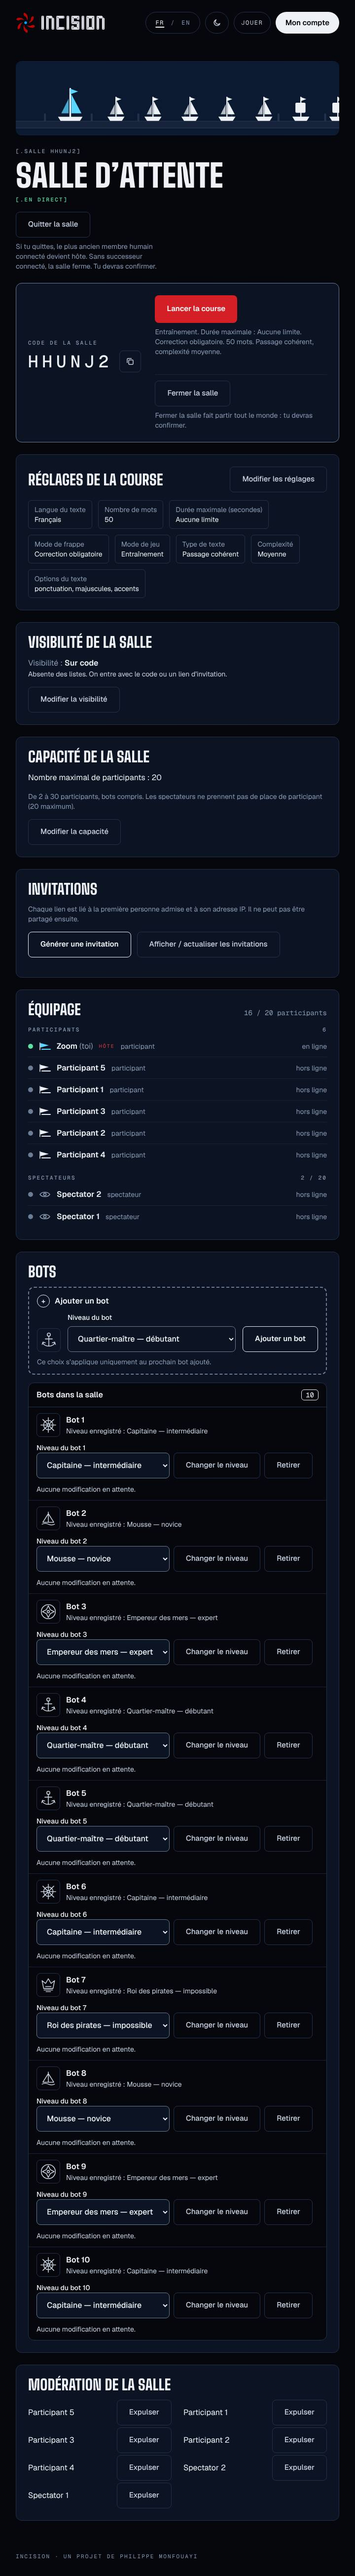
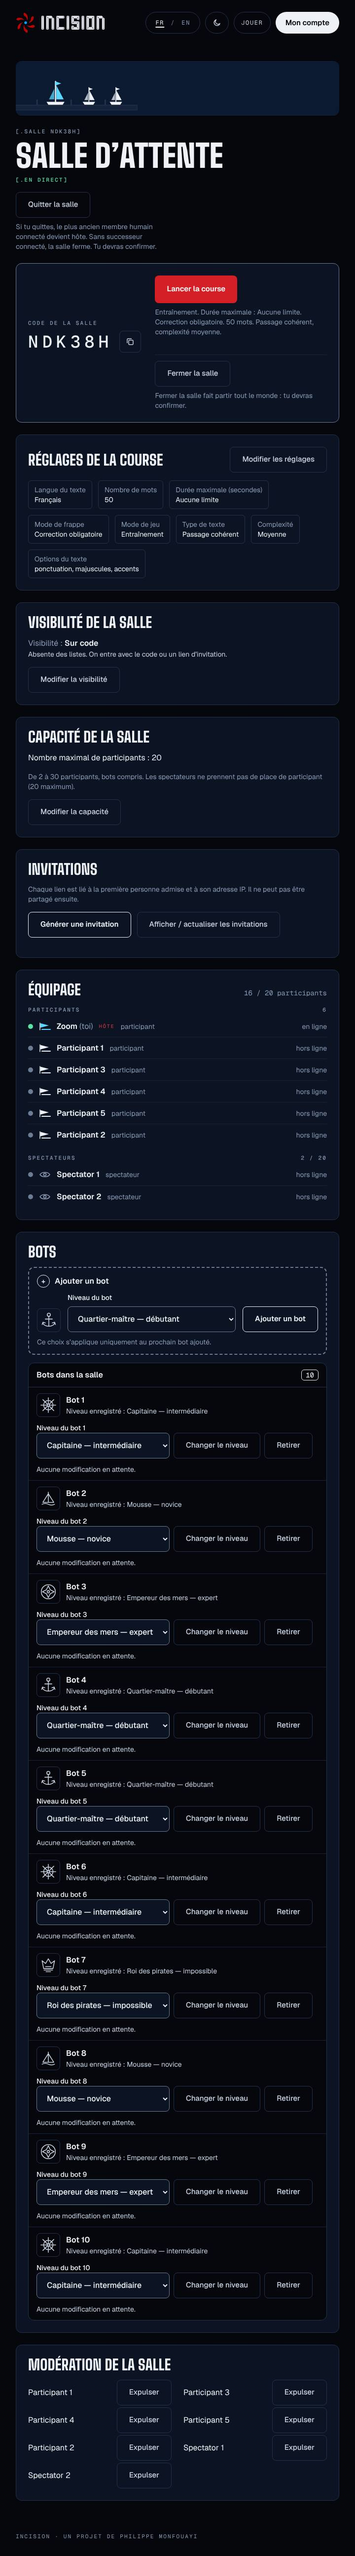
fix(rooms): no clipped count on the quay under 1024 px (DA2-5a)
The eight hulls and « +N au mouillage » need about 910 px: under 1024 px the
strip moors three hulls and writes nothing. The primitive is unchanged.

Claude-Session: https://claude.ai/code/session_01FBFqZLQUnSVF4VanERWsdS

diff --git a/apps/web/e2e/da2-waiting-room.spec.ts b/apps/web/e2e/da2-waiting-room.spec.ts
@@ -141,7 +141,11 @@ test("the crew is grouped, spectators have their own counter and the top counter
 test("the quay is decorative: eight hulls at most, then a count; pennants and eyes follow the roles", async ({ browser }) => {
   const host = await account(browser, "Capitaine");
   const code = await openRoom(host);
-  const quay = host.locator("[data-quay]");
+  // Two strips, one shown at a time: eight hulls and the count from 1024 px, three hulls under it.
+  const quay = host.locator("[data-quay]").first();
+  const narrowQuay = host.locator("[data-quay]").nth(1);
+  await expect(host.locator("[data-quay]")).toHaveCount(2);
+  await expect(narrowQuay).toBeHidden();
   await expect(quay).toHaveAttribute("aria-hidden", "true");
   await expect(quay.locator("[data-quay-hull]")).toHaveCount(1);
   await expect(quay.locator("text")).toHaveCount(0);
@@ -168,9 +172,26 @@ test("the quay is decorative: eight hulls at most, then a count; pennants and ey
   expect(box.height).toBeLessThanOrEqual(150);
   await host.setViewportSize({ width: 1280, height: 640 });
   await expect(quay).toBeHidden();
-  await host.setViewportSize({ width: 390, height: 844 });
-  await expect(quay).toBeVisible();
-  await expectNoHorizontalScroll(host);
+  await expect(narrowQuay).toBeHidden();
+  for (const width of [1023, 768, 390, 360]) {
+    await host.setViewportSize({ width, height: 844 });
+    await expect(quay).toBeHidden();
+    await expect(narrowQuay).toBeVisible();
+    await expect(narrowQuay).toHaveAttribute("aria-hidden", "true");
+    // No word is drawn there, so none is clipped; every hull drawn is inside the strip.
+    await expect(narrowQuay.locator("text")).toHaveCount(0);
+    await expect(narrowQuay.locator("[data-quay-hull]")).toHaveCount(3);
+    const strip = await narrowQuay.boundingBox();
+    const last = await narrowQuay.locator("[data-quay-hull]").last().boundingBox();
+    if (!strip || !last) throw new Error("narrow quay");
+    expect(last.x + last.width, `width ${width}`).toBeLessThanOrEqual(strip.x + strip.width);
+    await expectNoHorizontalScroll(host);
+  }
+  // From 1024 px the count is whole: it ends inside the strip.
+  await host.setViewportSize({ width: 1024, height: 900 });
+  const [wide, count] = [await quay.boundingBox(), await quay.locator("text").boundingBox()];
+  if (!wide || !count) throw new Error("quay count");
+  expect(count.x + count.width).toBeLessThanOrEqual(wide.x + wide.width);
 });
 
 test("a non-host sees the room in the same order without any host control; updates stay live", async ({ browser }) => {

diff --git a/apps/web/src/app/(site)/rooms/[code]/room-view.tsx b/apps/web/src/app/(site)/rooms/[code]/room-view.tsx
@@ -591,7 +591,9 @@ export function RoomView({ guest = false, initial, selfMemberId, t, tRaces, loca
   return (
     <div className="flex flex-col gap-6">
       {/* Decorative and bounded: hidden from assistive technology by the primitive, removed on a low screen. */}
-      <Quay hulls={moored} more={beyond > 0 ? format(roomCrewCopy(locale).moored, { count: formatNumber(beyond, locale) }) : undefined} className="h-[110px]! rounded-carte sm:h-[150px]! short:hidden" />
+      <Quay hulls={moored} more={beyond > 0 ? format(roomCrewCopy(locale).moored, { count: formatNumber(beyond, locale) }) : undefined} className="hidden rounded-carte lg:block short:hidden" />
+      {/* Under 1024 px the strip is too narrow for eight hulls and their count: three hulls, no clipped words. The crew counters say the numbers. */}
+      <Quay hulls={moored.slice(0, 3)} className="h-[110px]! rounded-carte lg:hidden" />
       <div className="flex flex-wrap items-end justify-between gap-x-6 gap-y-4">
         <div className="flex flex-col gap-3">
           <p className={monoLabel}>
